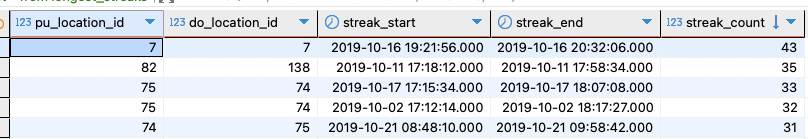
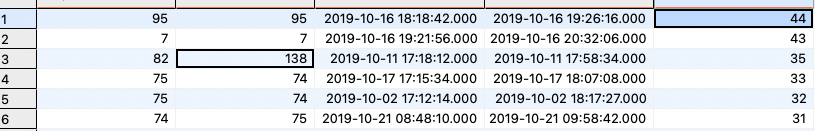
Add files via upload

diff --git a/week6/pyflink/homework.md b/week6/pyflink/homework.md
@@ -16,5 +16,5 @@ How much time did it take to send the entire dataset and flush?
 33.34
 
 Question 5
-
-![alt text](image.png)
+95 -> 95
+![alt text](image-1.png)
